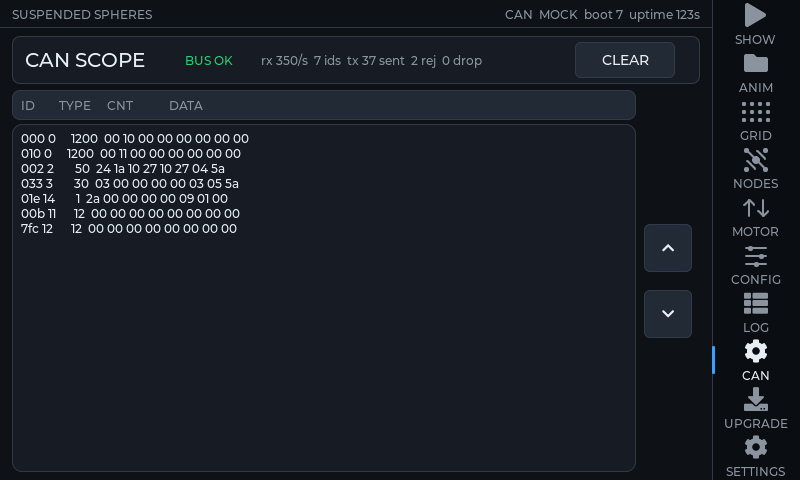
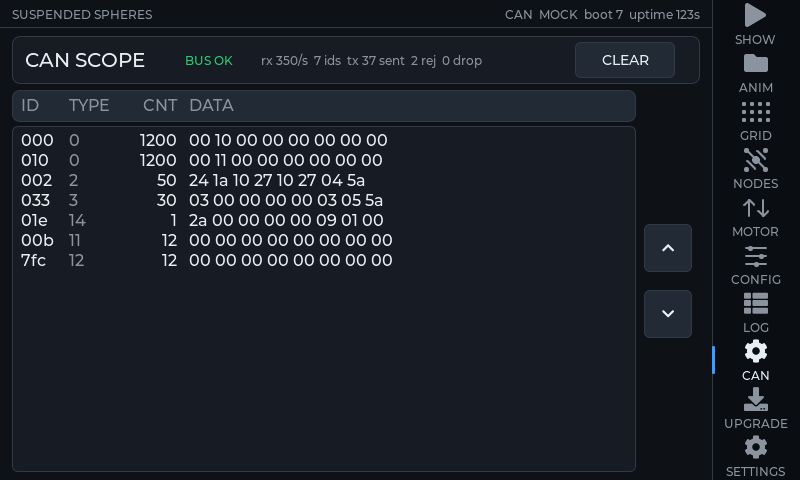
esp32gui: make the CAN scope readable
Use the 16 px UI font and give each column a fixed x in a small row pool,
so IDs, counts and data stay aligned and the list pages with the buttons
instead of a swipe. Drops the 24 KiB text buffer.

Changed region(s): [[0.0, 0.1875, 0.7812, 0.5625], [0.0938, 0.5312, 0.125, 0.5625]]

diff --git a/esp32gui/ui/ui.cpp b/esp32gui/ui/ui.cpp
@@ -15,6 +15,16 @@ constexpr int kStatusH = 28;
 constexpr int kScreenW = kRailX;
 constexpr int kScreenH = kHeight - kStatusH;
 
+/* CAN scope: fixed columns and a paged row pool. A proportional font cannot
+ * keep space-padded columns aligned, so each field has its own label x. */
+constexpr int kCanRows = 16;
+constexpr int kCanRowH = 20;
+constexpr int kCanIdX = 8;
+constexpr int kCanTypeX = 56;
+constexpr int kCanCntX = 104;
+constexpr int kCanCntW = 60;
+constexpr int kCanDataX = 176;
+
 const lv_color_t C_BG = lv_color_hex(0x0E1116);
 const lv_color_t C_RAIL = lv_color_hex(0x0A0D12);
 const lv_color_t C_PANEL = lv_color_hex(0x171C24);
@@ -97,12 +107,16 @@ lv_obj_t *s_log_text;
 lv_obj_t *s_log_status;
 
 /* CAN scope screen */
-lv_obj_t *s_can_text;
 lv_obj_t *s_can_summary;
 lv_obj_t *s_can_bus;
+lv_obj_t *s_can_empty;
+lv_obj_t *s_can_row_id[kCanRows];
+lv_obj_t *s_can_row_type[kCanRows];
+lv_obj_t *s_can_row_cnt[kCanRows];
+lv_obj_t *s_can_row_data[kCanRows];
+int s_can_first = 0;
 uint32_t s_can_shown_hash = 0;
 uint32_t s_can_last_ms = 0;
-char s_can_buf[UI_MAX_CAN_IDS * 96];
 
 /* Upgrade screen */
 lv_obj_t *s_upgrade_list;
@@ -403,6 +417,67 @@ void add_scroll_buttons(lv_obj_t *parent, lv_obj_t *target, int x, int y,
                                target);
   lv_obj_set_pos(down, vertical ? x : x + w + gap,
                  vertical ? y + h + gap : y);
+}
+
+void can_refresh_rows(void) {
+  const int n = s_snap.can_entry_count;
+  const int max_first = n > kCanRows ? n - kCanRows : 0;
+  if (s_can_first > max_first) s_can_first = max_first;
+  if (s_can_first < 0) s_can_first = 0;
+
+  for (int i = 0; i < kCanRows; ++i) {
+    lv_obj_t *id = s_can_row_id[i];
+    lv_obj_t *type = s_can_row_type[i];
+    lv_obj_t *cnt = s_can_row_cnt[i];
+    lv_obj_t *data = s_can_row_data[i];
+    const int idx = s_can_first + i;
+    if (idx >= n) {
+      lv_obj_add_flag(id, LV_OBJ_FLAG_HIDDEN);
+      lv_obj_add_flag(type, LV_OBJ_FLAG_HIDDEN);
+      lv_obj_add_flag(cnt, LV_OBJ_FLAG_HIDDEN);
+      lv_obj_add_flag(data, LV_OBJ_FLAG_HIDDEN);
+      continue;
+    }
+
+    const ui_can_entry_t *e = &s_snap.can_entries[idx];
+    char buf[32];
+    std::snprintf(buf, sizeof(buf), "%03lx", (unsigned long)e->identifier);
+    lv_label_set_text(id, buf);
+    std::snprintf(buf, sizeof(buf), "%u", (unsigned)e->type);
+    lv_label_set_text(type, buf);
+    std::snprintf(buf, sizeof(buf), "%lu", (unsigned long)e->frame_count);
+    lv_label_set_text(cnt, buf);
+    size_t dp = 0;
+    for (int b = 0; b < e->data_len && b < 8; ++b) {
+      dp += (size_t)std::snprintf(buf + dp, sizeof(buf) - dp, "%s%02x",
+                                  b ? " " : "", e->data[b]);
+    }
+    buf[dp] = '\0';
+    lv_label_set_text(data, buf);
+
+    lv_obj_clear_flag(id, LV_OBJ_FLAG_HIDDEN);
+    lv_obj_clear_flag(type, LV_OBJ_FLAG_HIDDEN);
+    lv_obj_clear_flag(cnt, LV_OBJ_FLAG_HIDDEN);
+    lv_obj_clear_flag(data, LV_OBJ_FLAG_HIDDEN);
+  }
+
+  if (s_can_empty != nullptr) {
+    if (n == 0) lv_obj_clear_flag(s_can_empty, LV_OBJ_FLAG_HIDDEN);
+    else lv_obj_add_flag(s_can_empty, LV_OBJ_FLAG_HIDDEN);
+  }
+}
+
+void on_can_page_up(lv_event_t *e) {
+  (void)e;
+  s_can_first -= kCanRows;
+  if (s_can_first < 0) s_can_first = 0;
+  can_refresh_rows();
+}
+
+void on_can_page_down(lv_event_t *e) {
+  (void)e;
+  s_can_first += kCanRows;
+  can_refresh_rows();
 }
 
 void on_can_toggle(lv_event_t *e) {
@@ -1040,32 +1115,63 @@ void build_can(void) {
   lv_obj_t *clear = make_button(head, "CLEAR", 100, 36, on_can_clear, nullptr);
   lv_obj_align(clear, LV_ALIGN_RIGHT_MID, -12, 0);
 
-  /* A label, not a text area, so the column headings are centred in their
-   * row and cannot be clipped by the widget's text cursor. */
-  lv_obj_t *header = make_panel(s, 12, 62, 624, 30);
+  /* Fixed label columns. A proportional font cannot keep space-padded
+   * columns aligned, so every field has its own x and the rows are a small
+   * pool of labels that is refilled from the first visible entry. */
+  const lv_font_t *can_font = &lv_font_montserrat_16;
+  lv_obj_t *header = make_panel(s, 12, 62, 624, 32);
   lv_obj_set_style_pad_all(header, 0, 0);
   lv_obj_set_style_bg_color(header, C_PANEL2, 0);
-  const char *cols[4] = {"ID", "TYPE", "CNT", "DATA"};
-  const int col_x[4] = {8, 46, 94, 156};
-  for (int i = 0; i < 4; ++i) {
-    lv_obj_t *l = make_label(header, cols[i], &lv_font_montserrat_12, C_MUTED);
-    lv_obj_set_pos(l, col_x[i], 7);
-  }
+  lv_obj_t *h_id = make_label(header, "ID", can_font, C_MUTED);
+  lv_obj_set_pos(h_id, kCanIdX, 5);
+  lv_obj_t *h_type = make_label(header, "TYPE", can_font, C_MUTED);
+  lv_obj_set_pos(h_type, kCanTypeX, 5);
+  lv_obj_t *h_cnt = make_label(header, "CNT", can_font, C_MUTED);
+  lv_obj_set_width(h_cnt, kCanCntW);
+  lv_obj_set_style_text_align(h_cnt, LV_TEXT_ALIGN_RIGHT, 0);
+  lv_obj_set_pos(h_cnt, kCanCntX, 5);
+  lv_obj_t *h_data = make_label(header, "DATA", can_font, C_MUTED);
+  lv_obj_set_pos(h_data, kCanDataX, 5);
 
-  s_can_text = lv_textarea_create(s);
-  lv_obj_set_pos(s_can_text, 12, 96);
-  lv_obj_set_size(s_can_text, 624, 348);
-  lv_textarea_set_text(s_can_text, "");
-  lv_obj_set_style_bg_color(s_can_text, C_PANEL, 0);
-  lv_obj_set_style_bg_opa(s_can_text, LV_OPA_COVER, 0);
-  lv_obj_set_style_text_color(s_can_text, C_TEXT, 0);
-  lv_obj_set_style_text_font(s_can_text, &lv_font_montserrat_12, 0);
-  lv_obj_set_style_pad_left(s_can_text, 8, 0);
-  lv_obj_set_style_pad_top(s_can_text, 6, 0);
-  lv_obj_set_style_border_color(s_can_text, C_LINE, 0);
-  lv_obj_set_style_border_width(s_can_text, 1, 0);
-  lv_obj_clear_flag(s_can_text, LV_OBJ_FLAG_CLICKABLE);
-  add_scroll_buttons(s, s_can_text, 644, 196, 48, 48, 18, true);
+  lv_obj_t *body = lv_obj_create(s);
+  lv_obj_remove_style_all(body);
+  lv_obj_set_pos(body, 12, 98);
+  lv_obj_set_size(body, 624, 346);
+  lv_obj_set_style_bg_color(body, C_PANEL, 0);
+  lv_obj_set_style_bg_opa(body, LV_OPA_COVER, 0);
+  lv_obj_set_style_radius(body, 6, 0);
+  lv_obj_set_style_border_width(body, 1, 0);
+  lv_obj_set_style_border_color(body, C_LINE, 0);
+  lv_obj_clear_flag(body, LV_OBJ_FLAG_SCROLLABLE);
+
+  s_can_empty = make_label(body, "no CAN frames yet", can_font, C_MUTED);
+  lv_obj_align(s_can_empty, LV_ALIGN_CENTER, 0, 0);
+  lv_obj_add_flag(s_can_empty, LV_OBJ_FLAG_HIDDEN);
+
+  for (int i = 0; i < kCanRows; ++i) {
+    const int y = 4 + i * kCanRowH;
+    s_can_row_id[i] = make_label(body, "", can_font, C_TEXT);
+    lv_obj_set_pos(s_can_row_id[i], kCanIdX, y);
+    s_can_row_type[i] = make_label(body, "", can_font, C_MUTED);
+    lv_obj_set_pos(s_can_row_type[i], kCanTypeX, y);
+    s_can_row_cnt[i] = make_label(body, "", can_font, C_TEXT);
+    lv_obj_set_width(s_can_row_cnt[i], kCanCntW);
+    lv_obj_set_style_text_align(s_can_row_cnt[i], LV_TEXT_ALIGN_RIGHT, 0);
+    lv_obj_set_pos(s_can_row_cnt[i], kCanCntX, y);
+    s_can_row_data[i] = make_label(body, "", can_font, C_TEXT);
+    lv_obj_set_pos(s_can_row_data[i], kCanDataX, y);
+    lv_obj_add_flag(s_can_row_id[i], LV_OBJ_FLAG_HIDDEN);
+    lv_obj_add_flag(s_can_row_type[i], LV_OBJ_FLAG_HIDDEN);
+    lv_obj_add_flag(s_can_row_cnt[i], LV_OBJ_FLAG_HIDDEN);
+    lv_obj_add_flag(s_can_row_data[i], LV_OBJ_FLAG_HIDDEN);
+  }
+  s_can_first = 0;
+
+  lv_obj_t *up = make_button(s, LV_SYMBOL_UP, 48, 48, on_can_page_up, nullptr);
+  lv_obj_set_pos(up, 644, 196);
+  lv_obj_t *down = make_button(s, LV_SYMBOL_DOWN, 48, 48, on_can_page_down,
+                               nullptr);
+  lv_obj_set_pos(down, 644, 262);
 }
 
 void build_upgrade(void) {
@@ -1188,7 +1294,10 @@ void ui_show_screen(int index) {
   if (index >= UI_SCREEN_COUNT) index = UI_SCREEN_COUNT - 1;
   s_screen = index;
   if (index == UI_SCREEN_LOG) s_log_last_ms = 0;
-  if (index == UI_SCREEN_CAN) s_can_last_ms = 0;
+  if (index == UI_SCREEN_CAN) {
+    s_can_last_ms = 0;
+    s_can_first = 0;
+  }
   for (int i = 0; i < UI_SCREEN_COUNT; ++i) {
     set_hidden(s_screens[i], i != index);
   }
@@ -1634,28 +1743,7 @@ void ui_update(const ui_snapshot_t *snapshot) {
     if (s_can_last_ms == 0 || (uint32_t)(can_now - s_can_last_ms) >= 1000u) {
       s_can_shown_hash = can_hash;
       s_can_last_ms = can_now;
-      size_t off = 0;
-      for (int i = 0; i < s_snap.can_entry_count; ++i) {
-        const ui_can_entry_t *e = &s_snap.can_entries[i];
-        char data[24];
-        size_t dp = 0;
-        for (int b = 0; b < e->data_len && b < 8; ++b) {
-          dp += (size_t)std::snprintf(data + dp, sizeof(data) - dp, "%s%02x",
-                                      b ? " " : "", e->data[b]);
-        }
-        data[dp] = '\0';
-        const int wrote = std::snprintf(
-            s_can_buf + off, sizeof(s_can_buf) - off, "%03lx %-4u %5lu  %s\n",
-            (unsigned long)e->identifier, (unsigned)e->type,
-            (unsigned long)e->frame_count, data);
-        if (wrote < 0) break;
-        off += (size_t)wrote;
-        if (off >= sizeof(s_can_buf) - 1) break;
-      }
-      if (s_snap.can_entry_count == 0) {
-        std::snprintf(s_can_buf, sizeof(s_can_buf), "no CAN frames yet");
-      }
-      lv_textarea_set_text(s_can_text, s_can_buf);
+      can_refresh_rows();
     }
   }
 
